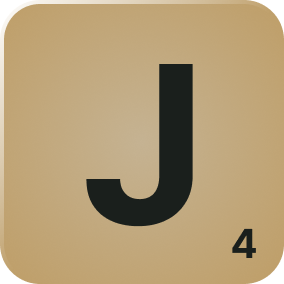
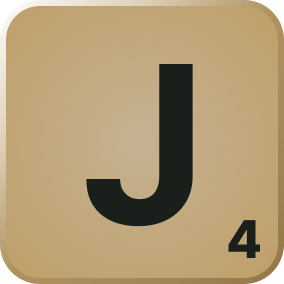
UI muutoksia

diff --git a/src/component/front.css b/src/component/front.css
@@ -1,6 +1,18 @@
 /* ------------------------------------------------ VARIABLES */
 :root {
     --gradient-main-background: linear-gradient(90deg, #1F2924 0%, #24322B 30%, #24322B 70%, #1F2924 100%);
+
+    --color-main-dark-green: rgb(32, 45, 40);
+
+    --color-empty-tile-fill: rgba(255, 255, 255, 0.02);
+    --color-center-tile-fill: rgba(0, 0, 0, 0.15);
+    --color-empty-and-enter-tile-border: rgba(255, 255, 255, 0.1);
+    /* Center tile border uses same color as empty */
+
+    --px-empty-and-enter-tile-border-thickness: 0.05vh;
+
+    --dropshadow-transparent: drop-shadow(0 0 0.5vh #0000005f);
+    --dropshadow-opaque: drop-shadow(0vh 0vh 0.2vh #000000);
 }
 
 
@@ -23,6 +35,14 @@ body {
 
     flex-direction: column;
     align-items: center;
+
+}
+
+/* ------------------------------------------------ ANIMATIONS */
+@keyframes blinker {
+    50% {
+        opacity: 0.1;
+    }
 }
 
 
@@ -30,8 +50,6 @@ body {
 #game-container {
     width: 82vh;
     height: 100vh;
-
-    background-color: rgba(180, 124, 12, 0);
 
     display: flex;
     justify-content: center;
@@ -57,17 +75,16 @@ body {
     background-position: center;
     background-repeat: no-repeat;
 
-    background-color: #ff000000 !important;
+    background-color: #00000000 !important;
     border: none !important;
-    filter: drop-shadow(0vh 0vh 0.2vh #000000);
+    filter: var(--dropshadow-opaque);
 }
 .base-tile-empty {
     box-sizing: border-box;
-
     border-radius: 10%;
 
-    background-color: rgba(255, 255, 255, 0.02);
-    border: 0.5px solid rgba(255, 255, 255, 0.1);
+    background-color: var(--color-empty-tile-fill);
+    border: var(--px-empty-and-enter-tile-border-thickness) solid var(--color-empty-and-enter-tile-border);
 }
 .base-tile-2x-letter {
     background-image: url('/graphics/tiles/2xkirj.png');
@@ -86,10 +103,12 @@ body {
 
     border-radius: 10%;
 
-    background-color: rgba(0, 0, 0, 0.1);
-    border: 0.5px solid rgba(255, 255, 255, 0.2);
+    background-color: var(--color-center-tile-fill);
+    border: var(--px-empty-and-enter-tile-border-thickness) solid var(--color-empty-and-enter-tile-border);
 }
 
+
+/* ------------------------------------------------ CURSOR */
 #cursor {
     width: 4.96vh;
     height: 4.96vh;
@@ -102,8 +121,8 @@ body {
 
     top: 5vh;
 
-    background-color: #1f2924cf;
-    backdrop-filter: blur(1px);
+    /* background-color: #1f2924cf;
+    backdrop-filter: blur(1px);   blurry background */
 
     transform: translate(37.52vh, 37.52vh);
 
@@ -117,17 +136,17 @@ body {
 }
 
 #cursor-tag {
-    height: 1.5vh;
+    height: 1.75vh;
     top: -2.5vh;
 
-    filter: drop-shadow(0 0 0.5vh #0000005f);
+    filter: var(--dropshadow-transparent);
 }
 
 #cursor-border {
     width: 6vh;
     height: 6vh;
 
-    filter: drop-shadow(0 0 0.5vh #0000005f);
+    filter: var(--dropshadow-opaque);
 
     z-index: 999;
 }
@@ -142,19 +161,16 @@ body {
     width: 3vh;
     height: 3vh;
 
+    filter: var(--dropshadow-opaque);
+
     object-fit: contain;
 
     animation: blinker 1.5s linear infinite;
 }
 
-@keyframes blinker {
-    50% {
-        opacity: 0.1;
-    }
-}
 
 
-/* ------------------------------------------------ HAND AND OTHER UI */
+/* ------------------------------------------------ HAND */
 #hand-container {
     height: 8vh;
     width: 62vh;

diff --git a/src/component/front.tsx b/src/component/front.tsx
@@ -29,7 +29,7 @@ const GENERATED_BOARD = [
     [0, 0, 0, 0, 0, 0, 0, 0, 0, 0, 0, 0, 0, 0, 0],
     [0, 0, 0, 0, 0, 0, 0, 0, 0, 0, 0, 0, 0, 0, 0],
     [0, 0, 0, 0, 0, 0, 0, 0, 0, 0, 0, 0, 0, 0, 0],
-    [0, 0, 0, "K", "E", "R", "M", "A", 0, 0, 0, 0, 0, 0, 0],
+    [0, 0, 0, "K", "E", "R", "M", 0, 0, 0, 0, 0, 0, 0, 0],
     [0, 0, 0, 0, 0, 0, 0, 0, 0, 0, 0, 0, 0, 0, 0],
     [0, 0, 0, 0, 0, 0, 0, 0, 0, 0, 0, 0, 0, 0, 0],
     [0, 0, 0, 0, 0, 0, 0, 0, 0, 0, 0, 0, 0, 0, 0],
